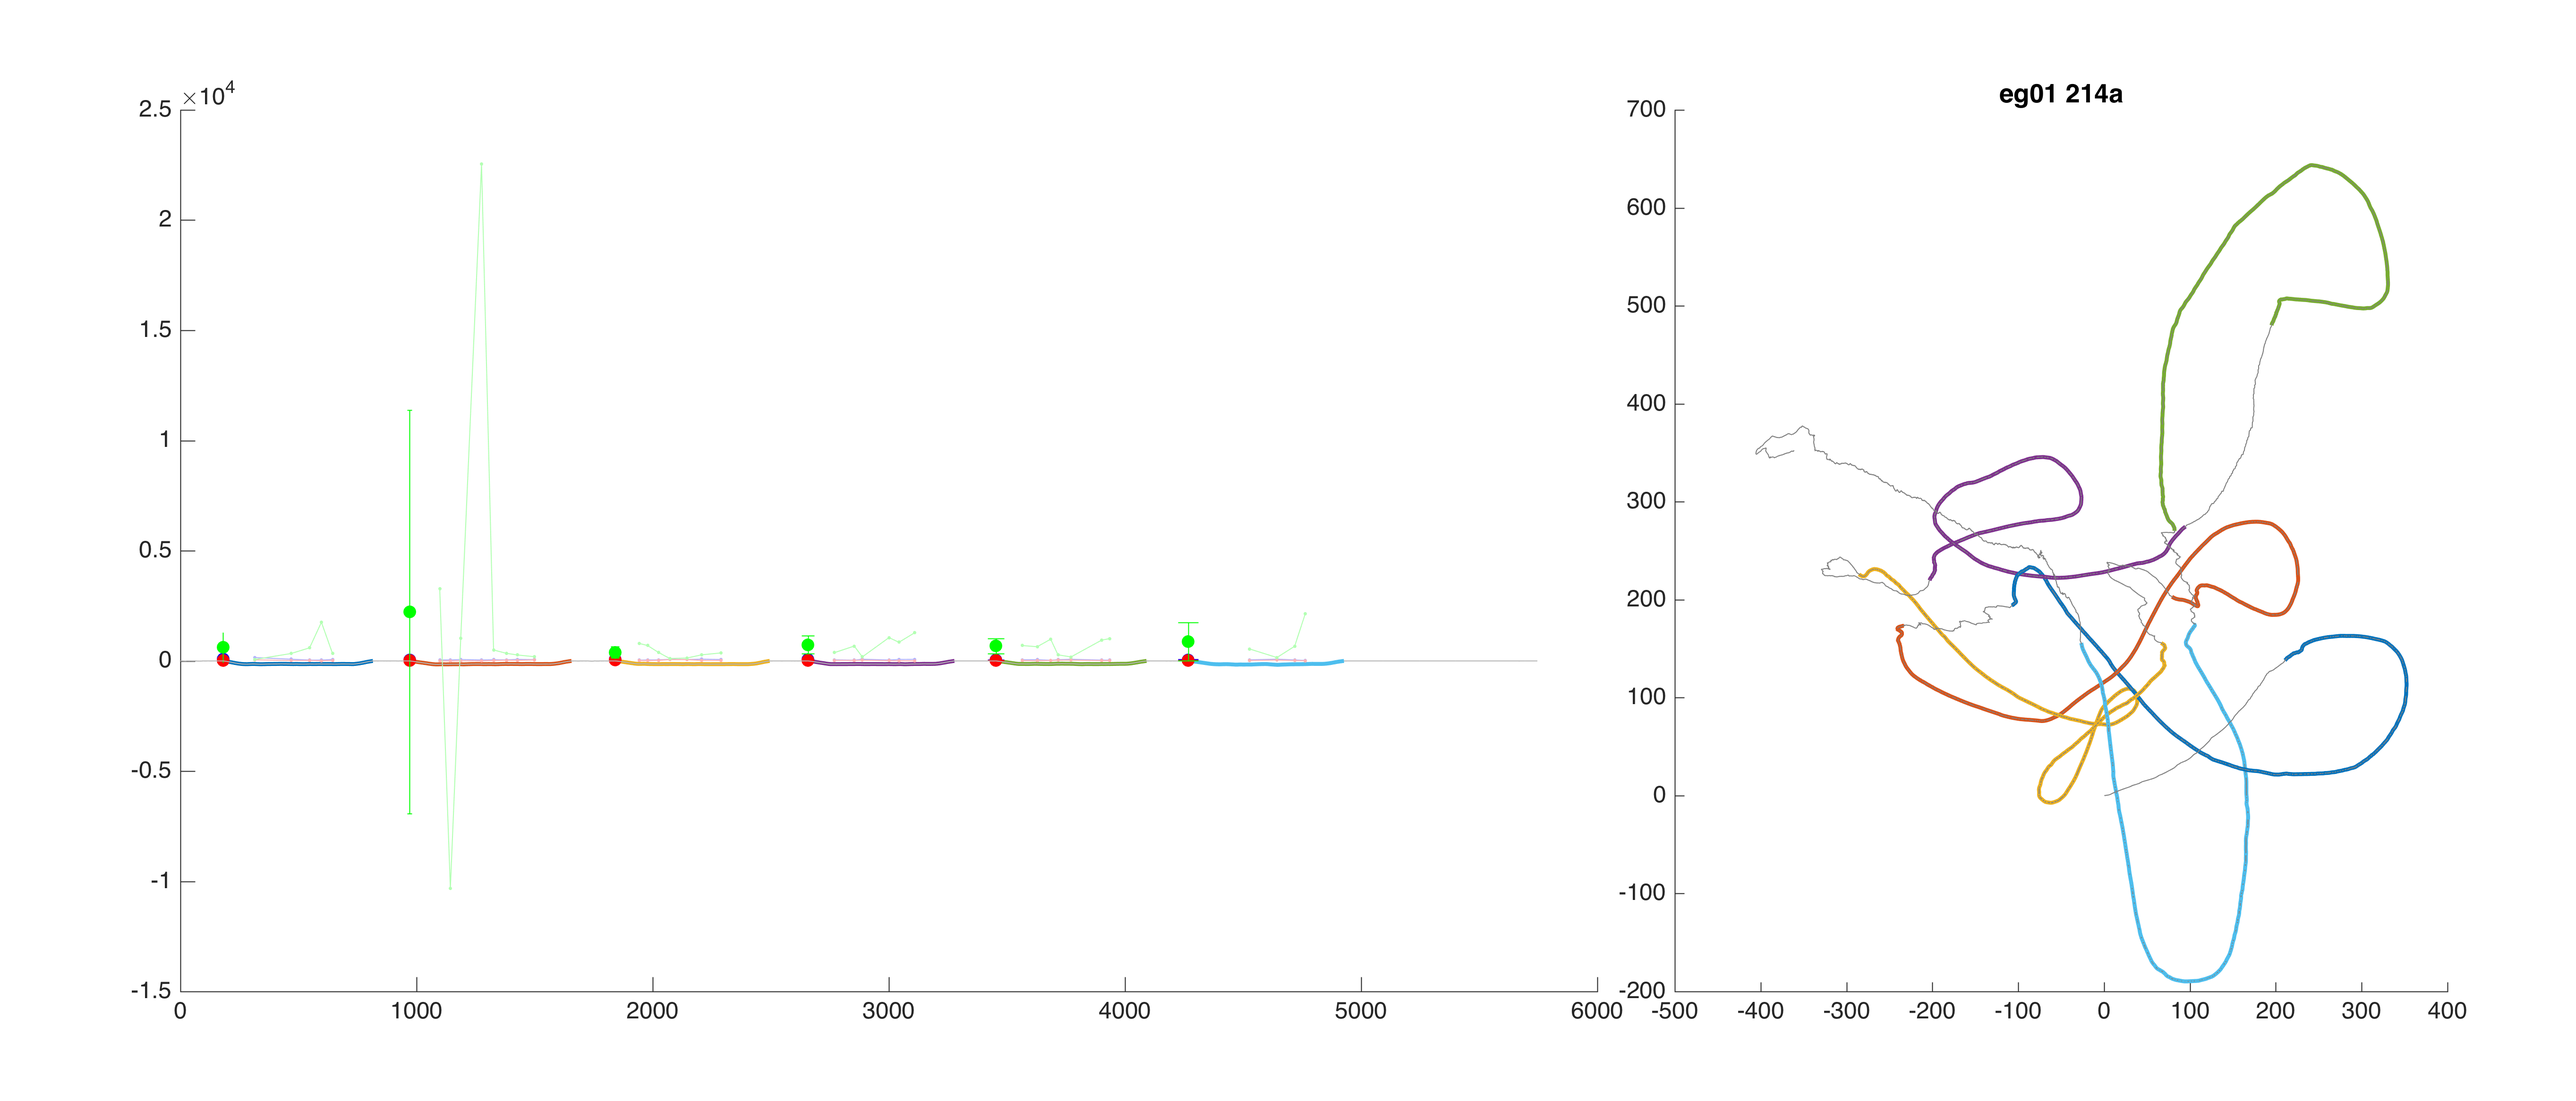
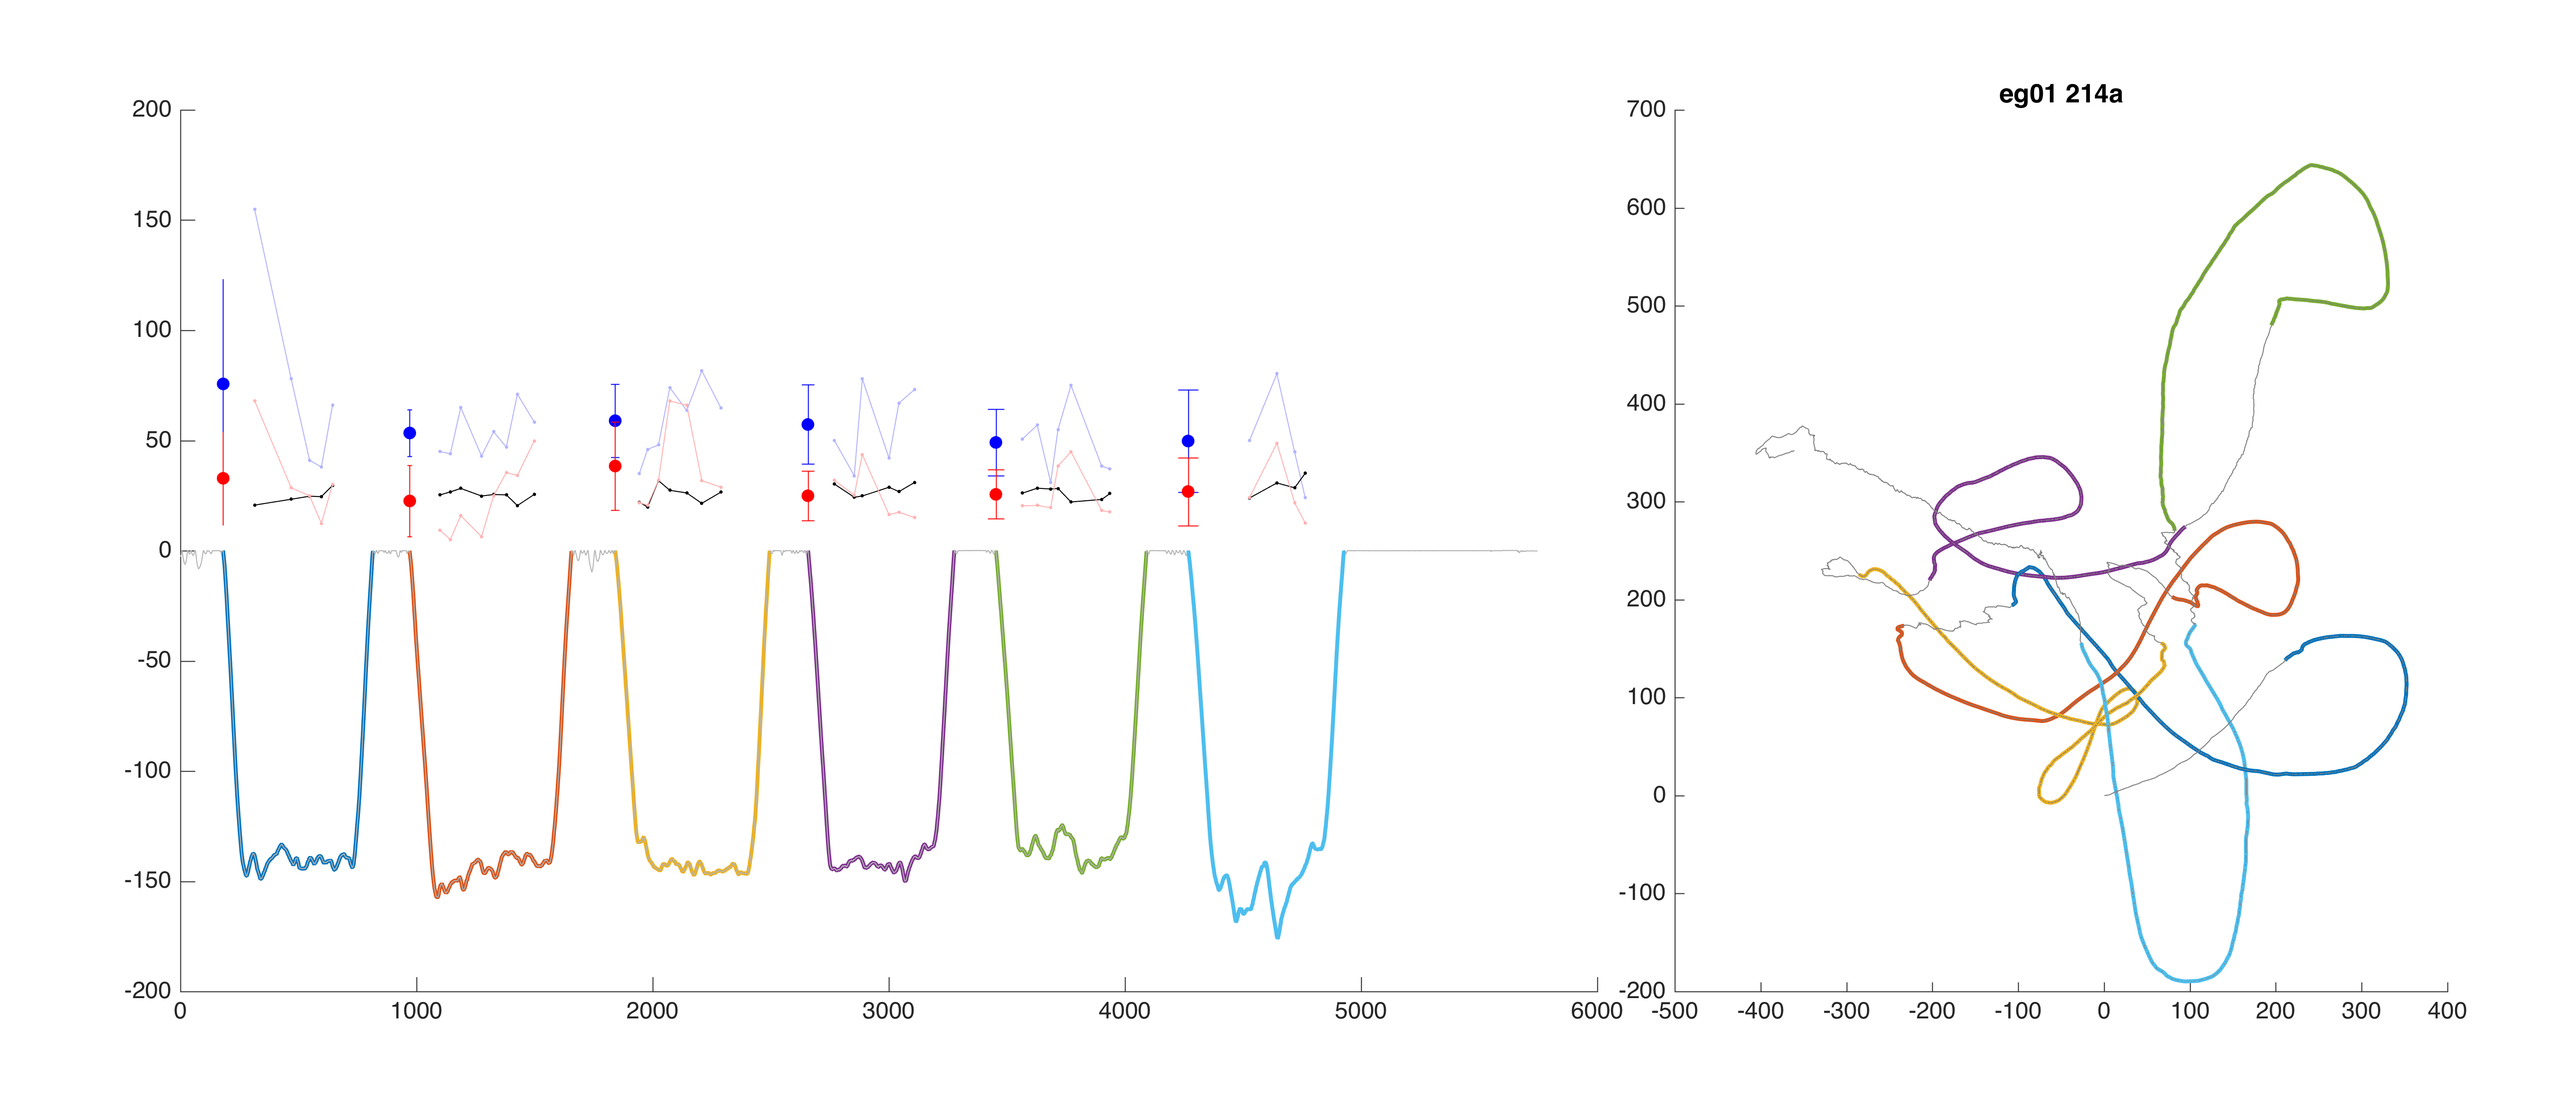
Calculate statistics for all

diff --git a/NARW_plotAlldives.m b/NARW_plotAlldives.m
@@ -5,8 +5,8 @@
 close all
 % tags is deployment name, time of tag on, cue of tag off
 load('NARW_foraging_tags')
-
-for i = 1:10; % 1:length(tags)
+%%
+for i = 9:10; % 1:length(tags)
     tag = tags{i};
     loadprh(tag);
     
@@ -15,9 +15,9 @@ for i = 1:10; % 1:length(tags)
     t = (1:length(p))/fs/3600; % compute time vector
     
     % compute amount of time within 10m of surface
-    [tags{i,4},tags{i,5}] = findsurftime(p,fs,10);
-    figure(5), subplot(length(tags),1,i), hold on
-    histogram(tags{i,5}/60,0:1:80), xlabel('Continuous Surface Time (min)')
+    %[tags{i,4},tags{i,5}] = findsurftime(p,fs,10);
+    %figure(5), subplot(length(tags),1,i), hold on
+    %histogram(tags{i,5}/60,0:1:80), xlabel('Continuous Surface Time (min)')
     
     %figure(6), hold on
     %cdfplot(tags{i,5}/60)
@@ -31,10 +31,11 @@ for i = 1:10; % 1:length(tags)
     load(['/Users/julievanderhoop/Dropbox (Personal)/tag/tagdata/' tag '_flowspeed.mat'])
     
     NARW_FilteredVol
+    NARW_plotalldens 
     
     figure(24), hold on
     for k = 1:length(dive)
-        if isempty(dive(k).stops) == 0
+        if isempty(dive(k).vperblock) == 0
         plot(dive(k).stops(:,2)-dive(k).stops(:,1),dive(k).vperblock,'o')
         end
     end
@@ -100,12 +101,24 @@ tags{i,7} = phase_speed;
 tags{i,8} = phase_pitch;
 tags{i,9} = F;
 
+figure(90), hold on 
+plot(T(:,3),1./(ddur/3600),'o')
+xlabel('Depth (m)'), ylabel('Dives per hour') 
+
+
+[v,ph,~,~] = findflukes(Aw,Mw,fs,0.3,0.02,[2 8]); % calculate pitch deviation
+figure(3), clf, hold on 
+plot(t,ph,'r')
+plot(t,-p/100,'k')
+
+pause 
+
 if i < 10
-    keep tags i % to remove carry-over of variables
+    clear p ptrack pitch ph Aw Mw fs % to remove carry-over of variables
 end
 end
 
-
+return 
 
 
 figure(100), xlabel('Local Time'), adjustfigurefont

diff --git a/NARW_FilteredVol.m b/NARW_FilteredVol.m
@@ -2,14 +2,14 @@
 
 % plot time versus volume
 figure(6), clf
-% for a dive
+% for a dive     
 for k = 1:size(T,1);
     dcue = T(k,1):T(k,2); % cues for that dive
     
     % dive(k).btm(1) is the first at depth, so descent is until then
     subplot('position',[0.07 0.1 0.55 0.8]), hold on
     xlabel('Time (seconds)'), ylabel('Depth (m)        Volume Filtered (m^3)')
-    if isempty(dive(k).btm) == 0
+    if isempty(dive(k).vperblock) == 0
         plot([0 dive(k).btm(1)],[0 0])
         % add stops
         plot([dive(k).stops(1,1)-dcue(1) dive(k).stops(1,2)-dcue(1)],[0 dive(k).vperblock(1)]) % first starts at zero
@@ -25,9 +25,9 @@ for k = 1:size(T,1);
     
     % plot total volume filtered and dive duration
     subplot('position',[0.65 0.1 0.3 0.8]), hold on
-    xlabel('Dive Duration (seconds)'), ylabel('Volume Filtered (m^3)')
+    xlabel('Dive Duration     (seconds)'), ylabel('Volume Filtered (m^3)')
     
-    if isempty(dive(k).btm) == 0
+    if isempty(dive(k).vperblock) == 0
         plot(T(k,2)-T(k,1),sum(dive(k).vperblock(1:j)),'o')
     else if isempty(dive(k).btm) == 1
             plot(T(k,2)-T(k,1),0,'o')
@@ -44,7 +44,7 @@ figure(7), clf, hold on
 for k = 1:size(T,1);
     dcue = T(k,1):T(k,2); % cues for that dive
     
-    if isempty(dive(k).btm) == 0
+    if isempty(dive(k).vperblock) == 0
         plot([dcue(1) dive(k).btm(1)+dcue(1)],[0 0])
         % from the surface until first stop = travel time
         dive(k).travel(1) = dive(k).stops(1,1)-dcue(1); % seconds

diff --git a/NARW_totalVolume.m b/NARW_totalVolume.m
@@ -2,20 +2,37 @@
 load('NARW_foraging_tags')
 figure(10), clf
 % for all files
+allvols = [];
+allbouts = [];
+allvperdive = [];
 for i = 1:length(tags)
     tag = tags{i};
+    c = get(gca,'colororder'); % get color order
+    c = repmat(c,ceil(max([tags{:,6}])/size(c,1)),1);    % repeat color order for number of dives
     
     % import flow speed for the tag
     load(['/Users/julievanderhoop/Dropbox (Personal)/tag/tagdata/' tag '_flowspeed.mat'])
     
     % calculate total volume
+    vperdive = []; % clear it 
     for j = 1:length(dive)
         vperdive(j) = sum(dive(j).vperblock);
+        allvperdive(end+1) = vperdive(j); 
+        for k = 1:length(dive(j).vperblock)
+            if isempty(dive(j).vperblock) ~= 1
+                allvols(end+1) = dive(j).vperblock(k); % make massive vector of all volumes
+                allbouts(end+1) = dive(j).stops(k,2)-dive(j).stops(k,1); % make massive vector of all durations
+            end
+        end
     end
     
     figure(10), subplot(length(tags),1,i), hold on
     histogram(vperdive,'binwidth',25,'facecolor',c(tags{i,6},:))
     xlim([0 1050])
-    clear vperdive
 end
 xlabel('Total Volume Filtered Per Dive (m^3)')
+
+
+[mean(allvperdive) std(allvperdive)]
+[mean(allvols) std(allvols)]
+[mean(allbouts) std(allbouts)]

diff --git a/NARW_divepauseplot.m b/NARW_divepauseplot.m
@@ -12,11 +12,15 @@ if exist('dive','var') == 1
             h = errorbar(T(j,1),mean(dive(j).stops(:,2)-dive(j).stops(:,1)),std(dive(j).stops(:,2)-dive(j).stops(:,1)),'bo','markerfacecolor','b');
             %h.CapSize = 12;
             plot(dive(j).stops(:,1),dive(j).stops(:,2)-dive(j).stops(:,1),'.-','color',[0.7 0.7 1])
+            plot(dive(j).stops(:,1),dive(j).rms(:)*500,'.-','color','k')
+
+        end
+        if isempty(dive(j).vperblock) ~= 1
             % plot volume
             h = errorbar(T(j,1),mean(dive(j).vperblock),std(dive(j).vperblock),'ro','markerfacecolor','r');
             plot(dive(j).stops(:,1),dive(j).vperblock,'.-','color',[1 0.7 0.7])
-            h = errorbar(T(j,1),mean(dive(j).dens)*1000,std(dive(j).dens*1000),'go','markerfacecolor','g'); % in g/m^3
-            plot(dive(j).stops(:,1),dive(j).dens*1000,'.-','color',[0.7 1 0.7]) % in g/m^3
+%            h = errorbar(T(j,1),mean(dive(j).dens)*1000,std(dive(j).dens*1000),'go','markerfacecolor','g'); % in g/m^3
+%            plot(dive(j).stops(:,1),dive(j).dens*1000,'.-','color',[0.7 1 0.7]) % in g/m^3
             %plot([T(i,1) T(i,2)],[mean(stops(:,2)-stops(:,1)) mean(stops(:,2)-stops(:,1))])
         end
         if exist('ptrack','var')

diff --git a/NARW_plotalldens.m b/NARW_plotalldens.m
@@ -61,9 +61,9 @@ if exist('dive','var')
                 %                 end
                 subplot(2,2,3), hold on
                 %plot(dive(j).stops(:,1),dive(j).dens,'color',c(j,:))
-                plot(dive(j).mnspeedperblock,dive(j).rms,'o-')
+                plot(dive(j).mnspeedperblock,dive(j).rms,'o-','color',c(j,:))
                 subplot(2,2,4), hold on
-                errorbar(mean(dive(j).mnspeedperblock),mean(dive(j).rms),std(dive(j).rms),'o')
+                errorbar(mean(dive(j).mnspeedperblock),mean(dive(j).rms),std(dive(j).rms),'o','color',c(j,:))
             end
             xlabel('Swimming speed (m/s)'), ylabel('Fluke stroke RMS (radians)')
             
